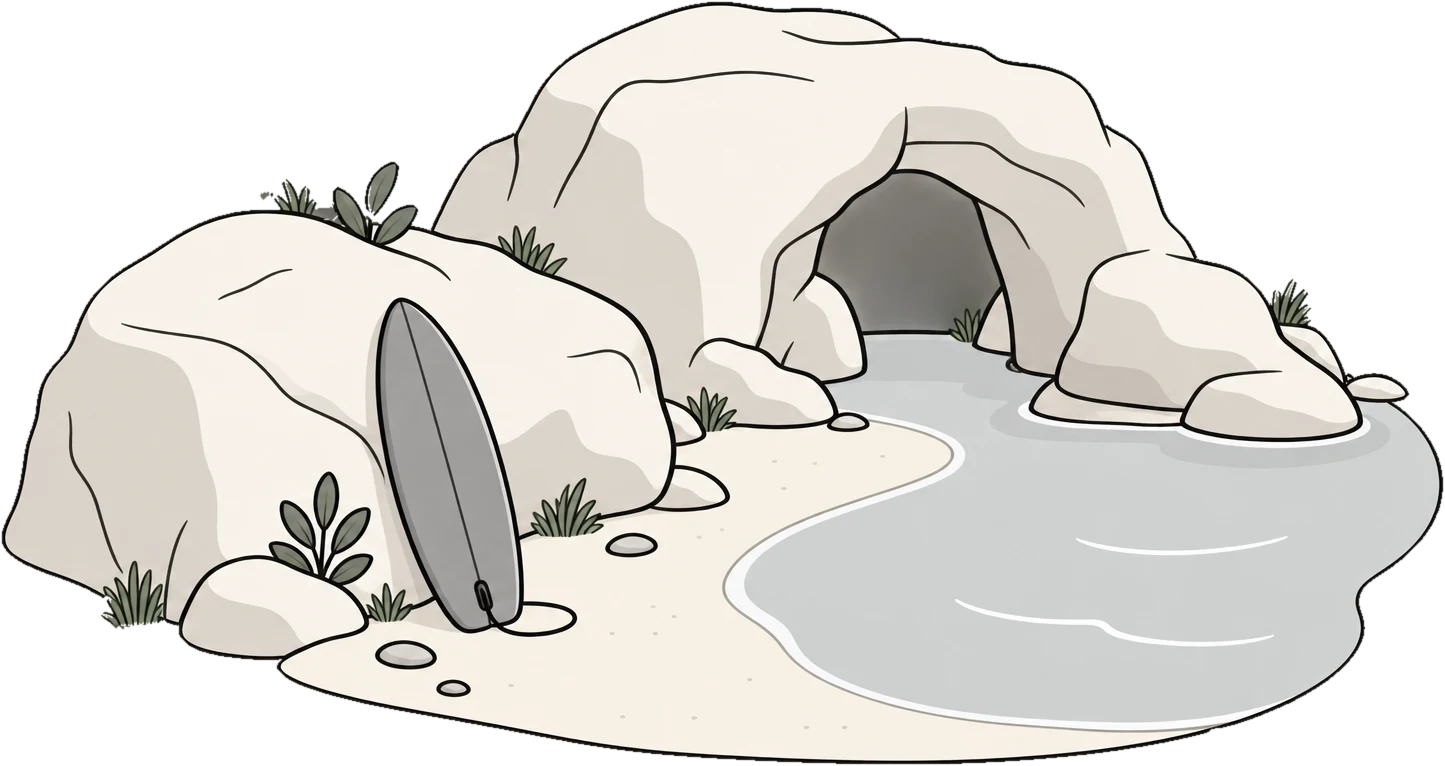
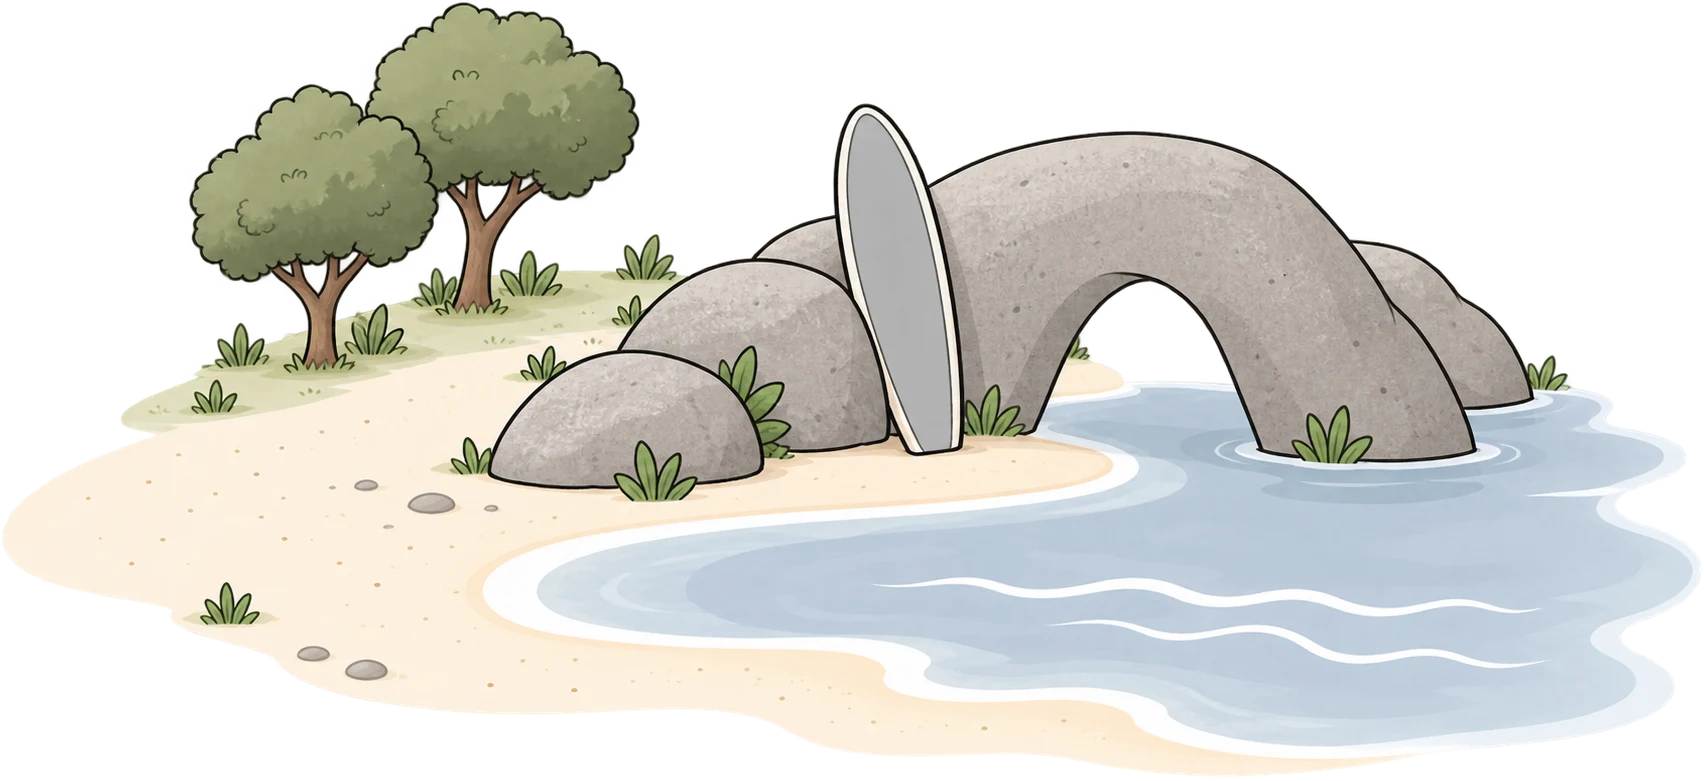
feat: Use the new beach artwork with trees and a stone arch
Locations can now have several convex footprints, so the trees, rocks and
water each block walking while the sand in front of the board stays open.

diff --git a/content/world/locations.ts b/content/world/locations.ts
@@ -18,8 +18,8 @@ export type LocationDefinition = {
   // Where the artwork's top-left corner sits in the world, and how wide it is drawn.
   position: Vec;
   width: number;
-  // Ground area the player can't walk through. Convex, in artwork pixels.
-  footprint: Polygon;
+  // Ground areas the player can't walk through. Each one convex, in artwork pixels.
+  footprints: Polygon[];
   // Ground line for layering: the player draws behind the location when
   // their feet are above this line and in front when below it.
   depthY: number;
@@ -43,11 +43,13 @@ export const casita: LocationDefinition = {
   position: { x: 220, y: 150 },
   width: 520,
   // The base of the computer: front edge, right side, and the hidden back corners.
-  footprint: [
-    { x: 160, y: 645 },
-    { x: 775, y: 735 },
-    { x: 920, y: 645 },
-    { x: 305, y: 555 },
+  footprints: [
+    [
+      { x: 160, y: 645 },
+      { x: 775, y: 735 },
+      { x: 920, y: 645 },
+      { x: 305, y: 555 },
+    ],
   ],
   depthY: 645,
   // On the keyboard doorstep, just in front of the door.
@@ -78,39 +80,70 @@ export const beach: LocationDefinition = {
   id: "beach",
   name: "Boardie",
   dialogue: beachDialogue,
-  art: { src: "/world/beach.webp", width: 1445, height: 766 },
-  position: { x: 515, y: 652 },
-  width: 440,
-  // Rocks, board and water: everything but the strip of sand at the front.
-  footprint: [
-    { x: 10, y: 450 },
-    { x: 80, y: 320 },
-    { x: 500, y: 250 },
-    { x: 1100, y: 250 },
-    { x: 1380, y: 370 },
-    { x: 1445, y: 560 },
-    { x: 1400, y: 690 },
-    { x: 1150, y: 765 },
-    { x: 850, y: 735 },
-    { x: 170, y: 640 },
+  art: { src: "/world/beach.webp", width: 1704, height: 781 },
+  position: { x: 440, y: 652 },
+  width: 520,
+  footprints: [
+    // The trees and the strip of grass behind them.
+    [
+      { x: 661, y: 248 },
+      { x: 661, y: 318 },
+      { x: 341, y: 378 },
+      { x: 291, y: 378 },
+      { x: 201, y: 328 },
+      { x: 291, y: 258 },
+      { x: 481, y: 228 },
+    ],
+    // The rocks, the board and the arch.
+    [
+      { x: 491, y: 428 },
+      { x: 581, y: 328 },
+      { x: 861, y: 103 },
+      { x: 1211, y: 138 },
+      { x: 1461, y: 228 },
+      { x: 1541, y: 348 },
+      { x: 1521, y: 408 },
+      { x: 1261, y: 458 },
+      { x: 761, y: 490 },
+      { x: 501, y: 478 },
+    ],
+    // The water, in two pieces so the sand in front of the board stays walkable.
+    [
+      { x: 1211, y: 528 },
+      { x: 1211, y: 768 },
+      { x: 961, y: 768 },
+      { x: 611, y: 728 },
+      { x: 521, y: 648 },
+      { x: 781, y: 588 },
+      { x: 1011, y: 548 },
+    ],
+    [
+      { x: 1161, y: 458 },
+      { x: 1611, y: 368 },
+      { x: 1681, y: 468 },
+      { x: 1706, y: 628 },
+      { x: 1461, y: 768 },
+      { x: 1211, y: 768 },
+    ],
   ],
-  // Anywhere between the back of the rocks and the front of the footprint.
-  depthY: 600,
+  // Just in front of the trees and the back of the rocks: anything walkable
+  // above this line is behind the artwork.
+  depthY: 308,
   // On the sand in front of the board.
-  interaction: { x: 470, y: 745 },
+  interaction: { x: 951, y: 518 },
   // The board, with some room around it so it's easy to tap.
   hitArea: [
-    { x: 385, y: 270 },
-    { x: 430, y: 275 },
-    { x: 495, y: 380 },
-    { x: 545, y: 520 },
-    { x: 550, y: 640 },
-    { x: 490, y: 665 },
-    { x: 435, y: 630 },
-    { x: 360, y: 470 },
-    { x: 350, y: 330 },
+    { x: 840, y: 95 },
+    { x: 880, y: 100 },
+    { x: 935, y: 250 },
+    { x: 965, y: 400 },
+    { x: 970, y: 470 },
+    { x: 930, y: 480 },
+    { x: 880, y: 420 },
+    { x: 830, y: 250 },
+    { x: 825, y: 150 },
   ],
-  control: { x: 370, y: 290, width: 160, height: 350 },
+  control: { x: 830, y: 105, width: 135, height: 360 },
   openMask: "/world/beach-board-mask.png",
 };
 
@@ -118,7 +151,7 @@ export const locations = [casita, beach];
 
 export type Location = LocationDefinition & {
   height: number;
-  world: { footprint: Polygon; depthY: number; interaction: Vec; hitArea: Polygon };
+  world: { footprints: Polygon[]; depthY: number; interaction: Vec; hitArea: Polygon };
 };
 
 export function resolveLocation(location: LocationDefinition): Location {
@@ -131,7 +164,7 @@ export function resolveLocation(location: LocationDefinition): Location {
     ...location,
     height: location.art.height * scale,
     world: {
-      footprint: location.footprint.map(toWorld),
+      footprints: location.footprints.map((footprint) => footprint.map(toWorld)),
       depthY: location.position.y + location.depthY * scale,
       interaction: toWorld(location.interaction),
       hitArea: location.hitArea.map(toWorld),

diff --git a/components/world/WorldScene.tsx b/components/world/WorldScene.tsx
@@ -39,10 +39,9 @@ export const CAMERA_CONFIG = {
 const ROUTE_MARGIN = 6; // how wide routes give the footprint corners
 
 const locations = definitions.map(resolveLocation);
-const blocked = locations.map((l) => inflate(l.world.footprint, PLAYER_CONFIG.radius));
-const corners = locations.map((l) =>
-  inflate(l.world.footprint, PLAYER_CONFIG.radius + ROUTE_MARGIN),
-);
+const footprints = locations.flatMap((l) => l.world.footprints);
+const blocked = footprints.map((f) => inflate(f, PLAYER_CONFIG.radius));
+const corners = footprints.map((f) => inflate(f, PLAYER_CONFIG.radius + ROUTE_MARGIN));
 
 // Layers are sorted by the ground y of the feet / depth anchor. The offset keeps
 // z-indexes positive when the player walks above the design area.

diff --git a/content/world/dialogues.ts b/content/world/dialogues.ts
@@ -121,7 +121,7 @@ export const beachDialogue: Dialogue = {
       ],
     },
     why: {
-      text: "Lagos has beaches like this one: rocks, little caves, and water that changes colour every hour. Live this close to the sea and it starts asking questions. Also, there are no screens out there. Casita takes that personally.",
+      text: "Lagos has beaches like this one: rocks, stone arches, and water that changes colour every hour. Live this close to the sea and it starts asking questions. Also, there are no screens out there. Casita takes that personally.",
       options: [
         { label: "How’s she getting on?", next: "progress" },
         { label: "Where’s Laura now?", next: "where" },
